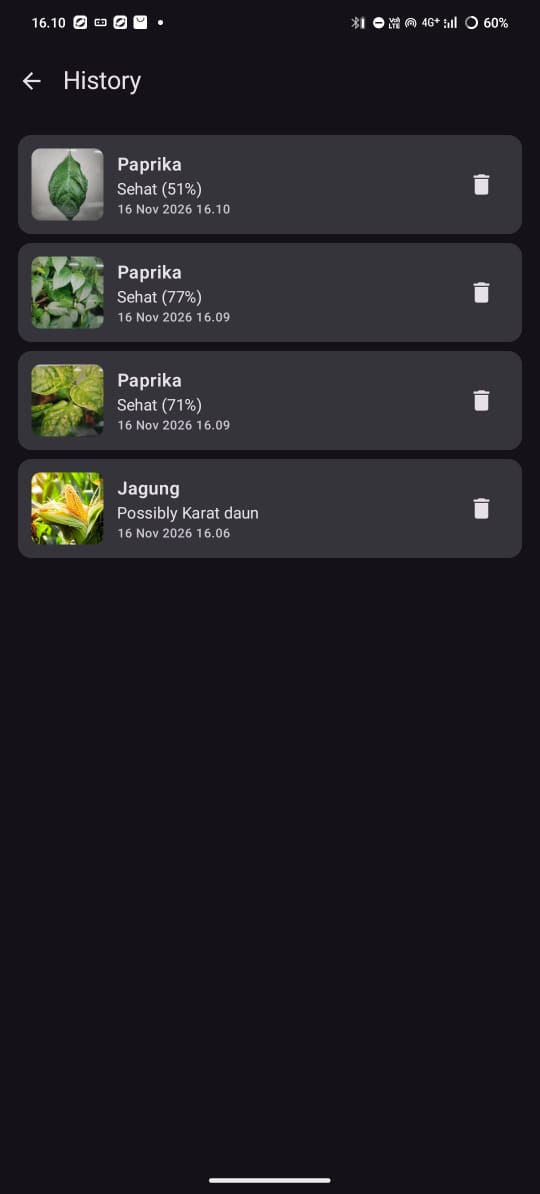
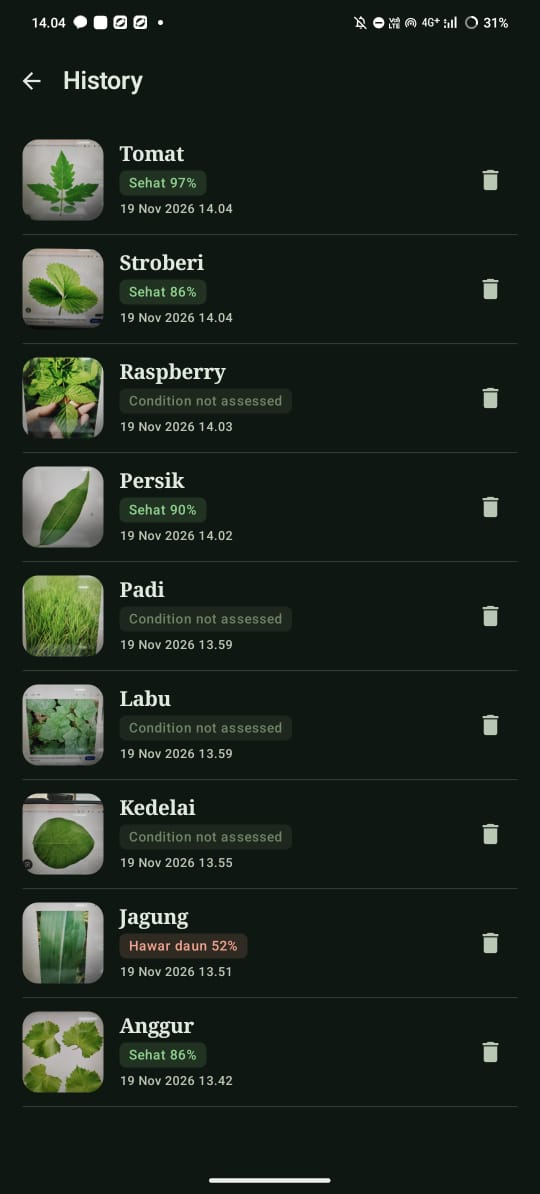
README: final version with redesigned app, model-v2 phone testing, limitations and next steps

diff --git a/README.md b/README.md
@@ -13,7 +13,14 @@ It is an end-to-end project covering **computer vision** (training, honest evalu
 a **production-style API** (FastAPI + ONNX Runtime, tests, metrics) and **DevOps**
 (non-root container, CI/CD to GHCR, k3s with Traefik and autoscaling, load testing).
 
-<!-- Screenshots: add after the Android build, e.g. docs/screenshots/home.png, result.png, history.png -->
+<p align="center">
+  <img src="docs/images/android_home.jpg" width="200" alt="Home screen">
+  <img src="docs/images/android_result.jpg" width="200" alt="Result screen">
+  <img src="docs/images/android_history.jpg" width="200" alt="History screen">
+</p>
+
+**Status:** complete for portfolio use. model-v2 (15 crops, 41 classes) is deployed on k3s; the Android APK is
+built by CI. Known gaps are listed under [Limitations](#limitations) and [Next steps](#next-steps).
 
 ## The main finding: lab accuracy is not field accuracy
 
@@ -108,40 +115,76 @@ kubectl apply -k deploy/k8s && kubectl -n plant-identifier rollout restart deplo
 ```
 <!-- RESULTS:END -->
 
-Per-class F1 before/after, confusion matrices and training curves are produced by the notebook
-(`eval/` in the training artifacts, attached to the [model-v1 release](https://github.com/lenohutapea/plant-identifier/releases)).
+Per-class F1 before/after, confusion matrices, training curves and the threshold calibration table are produced
+by the notebook (`eval/` in the training artifacts, attached to each
+[model release](https://github.com/lenohutapea/plant-identifier/releases)).
 
 ## Android app
 
-| Home | Result | History |
-|---|---|---|
-| <img src="docs/images/android_home.jpg" width="230" alt="Home screen with take-photo and gallery buttons"> | <img src="docs/images/android_result.jpg" width="230" alt="Result screen: corn recognized at 88%, leaf condition flagged as low confidence, care information in Indonesian"> | <img src="docs/images/android_history.jpg" width="230" alt="History of saved diagnoses"> |
+| Home | Result | Not recognized | History |
+|---|---|---|---|
+| <img src="docs/images/android_home.jpg" width="190" alt="Home screen with take-photo and gallery buttons, recent diagnoses and supported plants"> | <img src="docs/images/android_result.jpg" width="190" alt="Result screen with the plant, leaf condition, confidence and care information in Indonesian"> | <img src="docs/images/android_unrecognized.jpg" width="190" alt="A corn cob photo answered with Not recognized and the closest matches"> | <img src="docs/images/android_history.jpg" width="190" alt="History of saved diagnoses with status tags"> |
 
-Kotlin + Jetpack Compose (MVVM, Retrofit, Room). Photos from the camera or gallery are resized to 1024 px
-before upload; every diagnosis is stored locally with the full API response so history opens offline.
-CI builds the debug APK on every push and publishes it to the
+Kotlin + Jetpack Compose, MVVM, Retrofit, Room.
+
+- **Home:** take a photo or pick one from the gallery. Below that are recent diagnoses and the list of
+  plants the server's current model recognizes (read from `GET /plants`, so it follows model updates).
+- **Analyzing:** the photo is shown full screen with a scanning line while the request runs.
+- **Result:** a specimen-style label with the plant name, Latin name, confidence and a color-coded leaf
+  condition (healthy, disease, uncertain, not assessed). Three tabs:
+  - **Diagnosis:** symptoms, treatment, prevention, top-3 predictions.
+  - **Care:** planting, watering, fertilizer, harvest, notes for Indonesia.
+  - **Schedule:** a timeline in days after planting (HST).
+  Photos the model is not confident about are answered with **Not recognized** and the closest matches,
+  instead of a wrong diagnosis.
+- **History:** every diagnosis is stored locally with the full API response, so it opens offline.
+  Entries can be deleted.
+- **Settings:** the server address can be changed in the app (for example when the server's IP changes),
+  without rebuilding.
+
+Photos are resized to 1024 px before upload. Cleartext HTTP is allowed only for `*.nip.io`, the emulator
+host and localhost. CI runs the unit tests, builds the debug APK on every push and publishes it to the
 [android-latest pre-release](https://github.com/lenohutapea/plant-identifier/releases/tag/android-latest).
 
 ## Field testing on a phone
 
-Photos taken or picked on a real phone with model-v1 (threshold 0.5), beyond the benchmark test sets:
+Beyond the benchmark test sets, the app was tried on a real phone. These are informal checks (a few photos
+per plant, no ground-truth disease labels), not a benchmark.
 
-| Photo | Truth | App answer | Confidence | Verdict |
-|---|---|---|---:|---|
-| Corn cob in the field (not a leaf) | Corn | Corn; condition "possibly common rust", flagged low confidence | 88% plant, 49% condition | Plant correct; uncertainty shown honestly |
-| Chili leaves (3 photos) | Chili (*Capsicum*) | Bell pepper, healthy | 51–77% | Closest supported relative: same genus |
-| Potato plant (stock photo, transparent background) | Potato | Soybean, healthy | 65% | **Wrong** |
+**model-v2, threshold 0.7.** Most photos were internet images photographed off a laptop screen.
+
+| Photo | App answer | Verdict |
+|---|---|---|
+| Tomato, strawberry, peach and grape leaves | Correct plant, healthy (86–97%) | Correct |
+| Rice, squash, soybean and raspberry | Correct plant, "condition not assessed" | Correct (no condition data for these, by design) |
+| Corn leaf | Corn, "leaf blight" at 52% | Plant correct; condition not verified |
+| Corn cob (not a leaf) | Not recognized (best guess 35%) | Correct refusal |
+| Orange, bell pepper, potato, apple, blueberry and cherry leaves | Often a wrong plant or "not recognized" | **Weak** |
+
+Why the weak group fails:
+
+- **Healthy orange leaves never appear in the training data.** The only orange class is citrus greening, so
+  the model cannot recognize a healthy orange leaf.
+- Bell pepper, potato, apple, cherry and blueberry have few or no field photos (mostly PlantVillage lab
+  photos), and their leaves look alike.
+- **Photographing a screen** adds moiré patterns, a pixel grid, glare and a color shift that the model never
+  saw in training. Stock images on white backgrounds are also unlike both lab and field photos. Choosing the
+  saved image from the gallery, or photographing a real leaf, is a fairer test.
+
+**Earlier, model-v1 at threshold 0.5:**
+
+| Photo | Truth | App answer | Verdict |
+|---|---|---|---|
+| Chili leaves (3 photos) | Chili (*Capsicum*) | Bell pepper, healthy, 51–77% | Closest supported relative: same genus |
+| Potato plant (stock photo) | Potato | Soybean, healthy, 65% | **Wrong**, and would now be "not recognized" at 0.7 |
 
 What this shows:
 
-- The model is **closed-set**: it must pick one of its 15 crops, so a leaf it has never seen is mapped to the
-  most similar one. For chili this is useful (the app now labels the class "Paprika / Cabai"); for other
-  plants it is a wrong answer delivered with moderate confidence.
-- Healthy potato has the fewest examples in the training data (about 150 lab photos, no field photos), which
-  matches the potato miss.
-- Fixes: the "not recognized" threshold is now 0.7, chosen from the validation calibration table (the potato
-  miss at 65% would now be "not recognized"); next, an explicit **"other plant / not a leaf"** class trained on
-  out-of-scope images.
+- The model is **closed-set**: it must choose one of its 15 crops. The 0.7 threshold turns many wrong answers
+  into "not recognized" but cannot catch all of them. A leaf of an unsupported species can still land on a
+  similar crop with high confidence.
+- For chili this is useful: the class is labeled "Paprika / Cabai". For other unsupported plants it is a
+  wrong answer, which is what the planned "other" class addresses.
 
 ## Architecture
 
@@ -257,8 +300,10 @@ Change the host in `deploy/k8s/ingress.yaml` and the model release in `deploy/k8
 docker run --rm -i --network host -v "$PWD/loadtest:/scripts" grafana/k6 run /scripts/predict.js
 ```
 
-**Android** — open `android/` in Android Studio and run, or download the debug APK from the latest
-`android` workflow run. The API address is `apiBaseUrl` in `android/gradle.properties`.
+**Android** — download the debug APK from the
+[android-latest pre-release](https://github.com/lenohutapea/plant-identifier/releases/tag/android-latest), or open
+`android/` in Android Studio and run. The default API address is `apiBaseUrl` in `android/gradle.properties`;
+it can also be changed in the app's Settings screen.
 
 ## API
 
@@ -270,14 +315,15 @@ docker run --rm -i --network host -v "$PWD/loadtest:/scripts" grafana/k6 run /sc
 | GET | `/healthz`, `/readyz` | Liveness / readiness (503 until the model is loaded) |
 | GET | `/metrics` | Prometheus metrics: requests, latency, inference time, predictions per plant |
 
-`condition_status` is one of `assessed`, `uncertain` (best guess below 50%), `not_supported` (see the
-table above) or `unrecognized` (no plant above 50%). Details in [`api/README.md`](api/README.md).
+`condition_status` is one of `assessed`, `uncertain` (best condition guess below `CONDITION_MIN_CONFIDENCE`,
+0.5), `not_supported` (see the table above) or `unrecognized` (no plant reaches `PLANT_MIN_CONFIDENCE`, 0.7 in
+the k3s deployment). Details in [`api/README.md`](api/README.md).
 
 ## Performance
 
 <!-- LOADTEST:START -->
 k6 load test against `POST /predict` through Traefik on a single-node k3s (Ubuntu VM, 4 vCPU, 5.8 GB RAM),
-model-v1, 640x480 JPEG, ramping to 20 virtual users that each wait 0.5 s between requests (4 minutes):
+model-v1 (same architecture and input size as model-v2), 640x480 JPEG, ramping to 20 virtual users that each wait 0.5 s between requests (4 minutes):
 
 | Metric | Result |
 |---|---|
@@ -293,23 +339,39 @@ under load rather than maximum throughput.
 
 ## Limitations
 
-- **15 crops only.** Many crops common in Indonesia — cassava, cocoa, coffee,
-  sweet potato — are not in the datasets, and a photo of them will be "not recognized" at best or
-  misclassified at worst (see Field testing). Chili has no class of its own; its leaves are recognized as
-  bell pepper (same genus), and disease diagnosis on chili is untested.
+- **15 crops only.** Many crops common in Indonesia — cassava, cocoa, coffee, sweet potato, local chili such
+  as cabai rawit — are not in the datasets. A photo of them is "not recognized" at best and misclassified at
+  worst (see Field testing). Chili has no class of its own; its leaves are recognized as bell pepper (same
+  genus), and disease diagnosis on chili is untested.
+- **The model is closed-set.** There is no "other plant / not a leaf" class yet; the confidence threshold is
+  the only guard against out-of-scope photos.
+- **Healthy orange leaves cannot be recognized:** the data has only diseased (citrus greening) orange leaves.
 - **Field accuracy is lower than lab accuracy**, even after fine-tuning; see the results table. PlantDoc is
   small (about 2,600 images) and has no field photos for some classes (for example Orange, Tomato target
-  spot, Grape esca), which are therefore evaluated on lab photos only.
-- **Six crops have no condition diagnosis** because their data has only one condition (see above). Rice in
-  particular has no healthy class.
+  spot, Grape esca), which are therefore evaluated on lab photos only. Bell pepper, potato, apple, cherry and
+  blueberry were the weakest in phone testing.
+- **Photos of a screen and stock images work worse** than photos of real leaves (moiré, glare, color shift,
+  artificial backgrounds).
+- **Six crops have no condition diagnosis** because their data has only one condition (see Supported plants).
+  Rice in particular has no healthy class.
 - **Label approximations:** PlantDoc's "Corn leaf blight" is mapped to Northern leaf blight, and
   "&lt;plant&gt; leaf" folders are treated as healthy.
-- **Rice data is small** (about 470 images, originally a detection dataset with augmented copies).
+- **Rice data is small** (about 470 images from a single source), so rice results are likely optimistic.
 - **Care information is general guidance** written for this project, not reviewed by an agronomist.
   Pesticides are named by active ingredient only; always follow the product label and consult a local
   extension officer (PPL).
 - **The API runs over plain HTTP on the local network.** Exposing it publicly would need TLS
-  (for example cert-manager) and rate limiting.
+  (for example cert-manager), authentication and rate limiting.
+
+## Next steps
+
+- **model-v3:**
+  - an explicit "other plant / not a leaf" class trained on out-of-scope images;
+  - healthy citrus leaves from an openly licensed dataset;
+  - screen-photo augmentation (moiré, color shift, glare).
+- **More field photos** for the weak crops, ideally photographed locally in North Sumatra.
+- **Observability:** a Prometheus + Grafana dashboard for the metrics the API already exposes.
+- **GitOps:** deploy from the repository with Argo CD instead of `kubectl apply`.
 
 ## Datasets and citations
 
